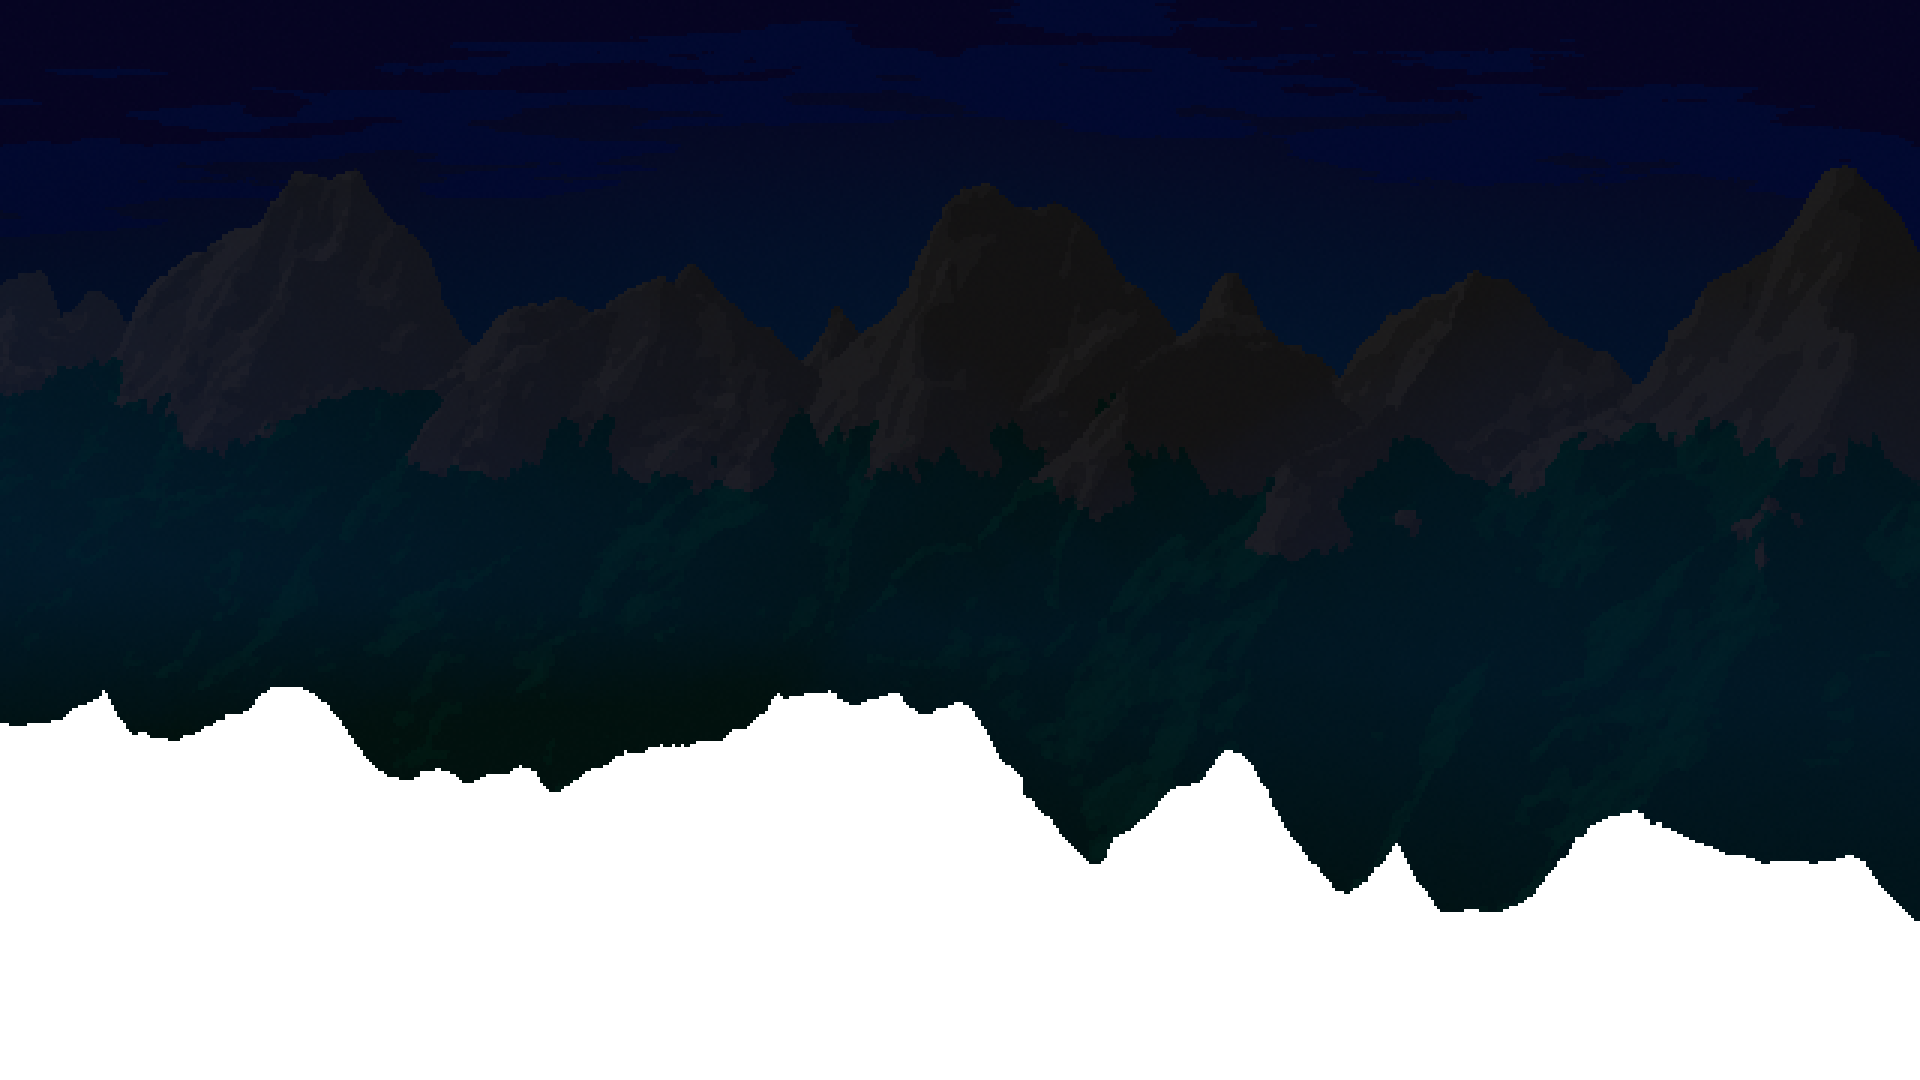
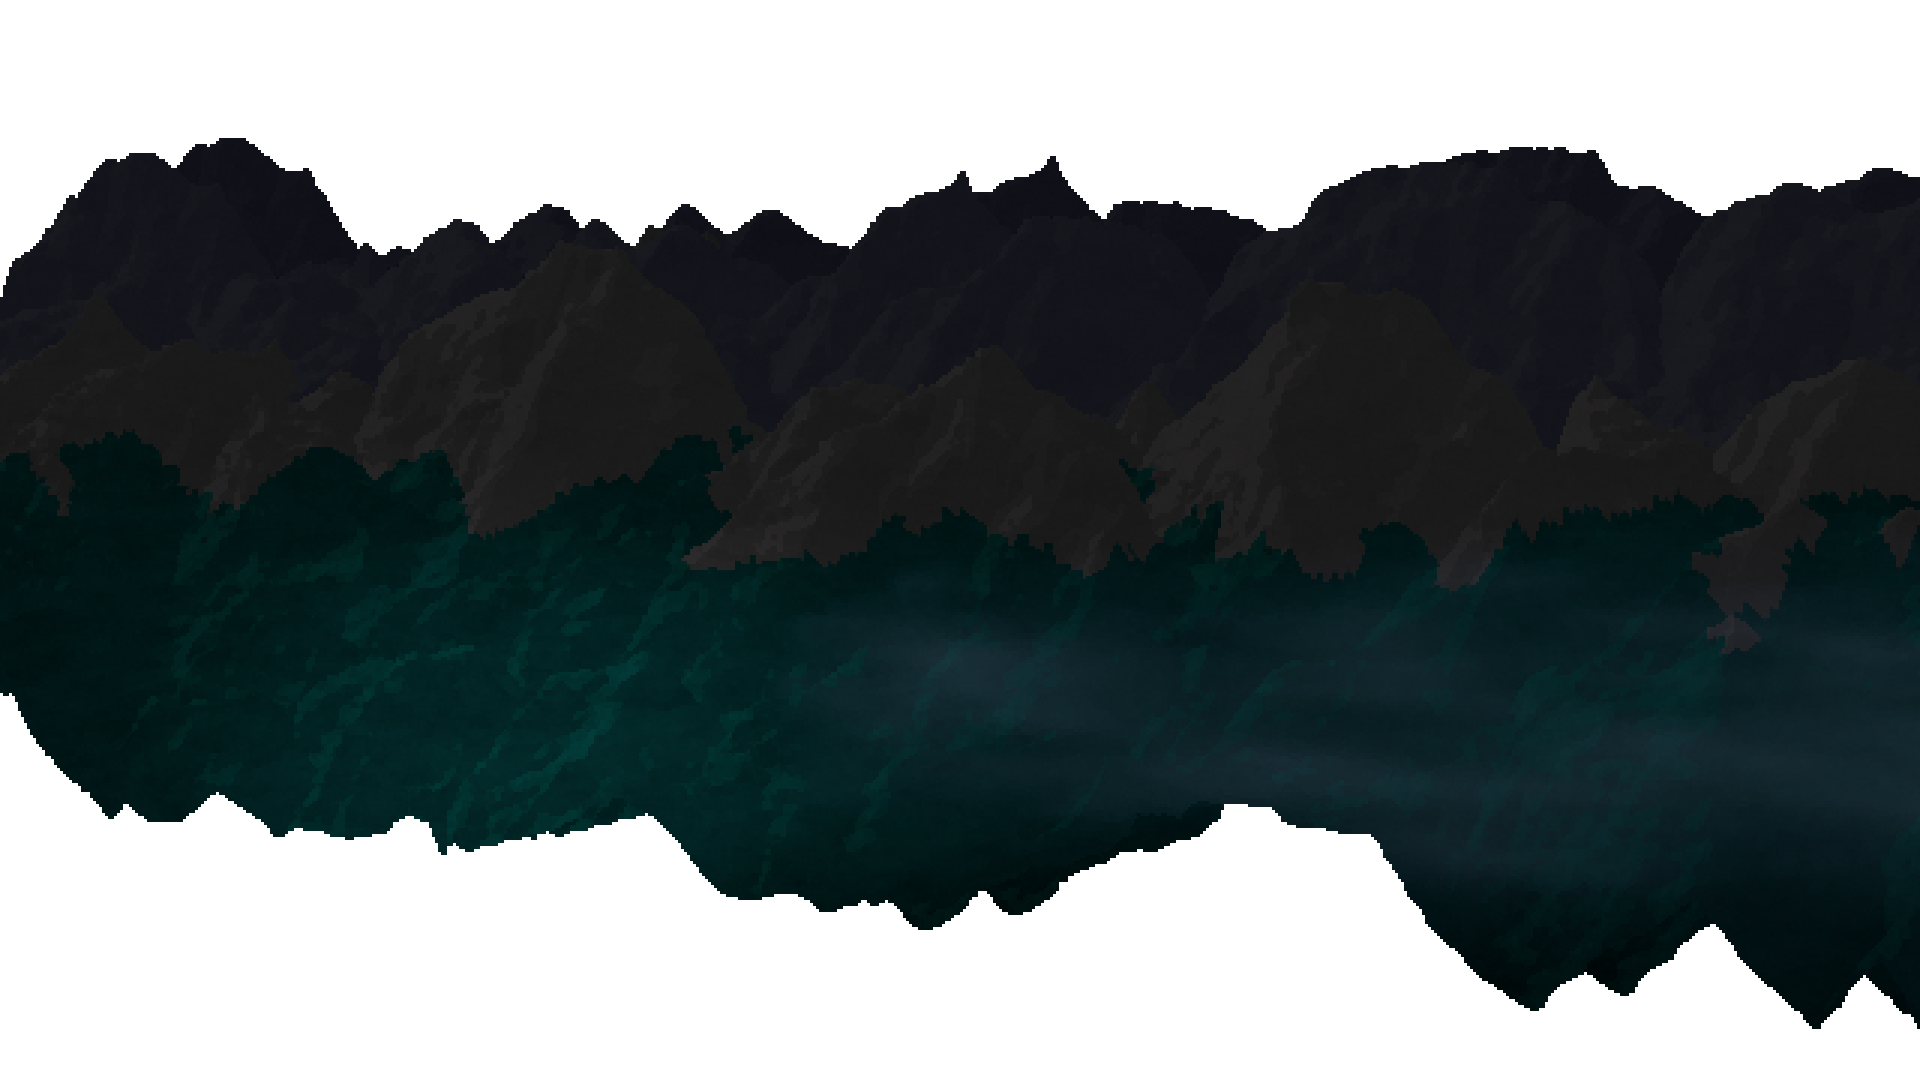
increased total frame length to 55, added 2 layers to a total of 4

diff --git a/SpawnHousesModMenu.cs b/SpawnHousesModMenu.cs
@@ -14,7 +14,7 @@ namespace SpawnHouses;
 public class SpawnHousesModMenu : ModMenu
 {
     public override bool IsAvailable => true;
-    
+
     public override string DisplayName => "Generated Housing";
     //public override int Music => MusicLoader.GetMusicSlot(Mod, "Sounds/Music/YourMenuTheme"); // Optional custom music
 
@@ -25,18 +25,30 @@ public class SpawnHousesModMenu : ModMenu
 public class CustomMenuBackgroundStyle : ModSurfaceBackgroundStyle
 {
     private Stopwatch _stopwatch;
-    
-    private Asset<Texture2D> _backgroundTexture;
-    private Asset<Texture2D>[] _foregroundTextures;
 
-    private double _frameInterval = 1000.0 / 9;
+    private Asset<Texture2D> _skyBackTexture;
+    private Asset<Texture2D>[] _skyDetailTextures = new Asset<Texture2D>[55];
+    private Asset<Texture2D> _backTexture;
+    private Asset<Texture2D>[] _frontTextures;
+
+    private readonly double _frontFrameInterval = 1000.0 / 9;
+    private readonly double _skyDetailFrameInterval = 1000.0 / 5;
 
     public override void Load()
-    {        
+    {
         _stopwatch = Stopwatch.StartNew();
-                
-        _backgroundTexture = ModContent.Request<Texture2D>("SpawnHouses/Assets/Menu/back0050");
-        _foregroundTextures =
+
+        _skyBackTexture = ModContent.Request<Texture2D>("SpawnHouses/Assets/Menu/sky_back0050");
+        for (int i = 0; i < _skyDetailTextures.Length; i++)
+        {
+            string name = i + "";
+            if (name.Length == 1)
+                name = "0" + name;
+            _skyDetailTextures[i] = ModContent.Request<Texture2D>($"SpawnHouses/Assets/Menu/sky_detail00{name}");
+        }
+
+        _backTexture = ModContent.Request<Texture2D>("SpawnHouses/Assets/Menu/back0050");
+        _frontTextures =
         [
             ModContent.Request<Texture2D>("SpawnHouses/Assets/Menu/front0050"),
             ModContent.Request<Texture2D>("SpawnHouses/Assets/Menu/front0051"),
@@ -49,23 +61,41 @@ public class CustomMenuBackgroundStyle : ModSurfaceBackgroundStyle
 
     public override void Unload()
     {
-        _backgroundTexture.Dispose();
-        foreach (var texture in _foregroundTextures)
-            texture.Dispose();
-        _backgroundTexture = null;
-        _foregroundTextures = null;
+        // force this to main thread because sometimes unloading is done on separate thread
+        Main.RunOnMainThread(() =>
+        {
+            _skyBackTexture?.Dispose();
+            foreach (var texture in _skyDetailTextures)
+                texture?.Dispose();
+            _backTexture?.Dispose();
+            foreach (var texture in _frontTextures)
+                texture?.Dispose();
+        });
     }
 
     public override bool PreDrawCloseBackground(SpriteBatch spriteBatch)
     {
+
         spriteBatch.Draw(
-            _backgroundTexture.Value,
+            _skyBackTexture.Value,
             new Rectangle(0, 0, Main.screenWidth, Main.screenHeight),
             Color.White
         );
-        
+
         spriteBatch.Draw(
-            _foregroundTextures[(int)Math.Round(_stopwatch.ElapsedMilliseconds / _frameInterval) % 6].Value,
+            _skyDetailTextures[(int)Math.Round(_stopwatch.ElapsedMilliseconds / _skyDetailFrameInterval) % 55].Value,
+            new Rectangle(0, 0, Main.screenWidth, Main.screenHeight),
+            Color.White
+        );
+
+        spriteBatch.Draw(
+            _backTexture.Value,
+            new Rectangle(0, 0, Main.screenWidth, Main.screenHeight),
+            Color.White
+        );
+
+        spriteBatch.Draw(
+            _frontTextures[(int)Math.Round(_stopwatch.ElapsedMilliseconds / _frontFrameInterval) % 6].Value,
             new Rectangle(0, 0, Main.screenWidth, Main.screenHeight),
             Color.White
         );
